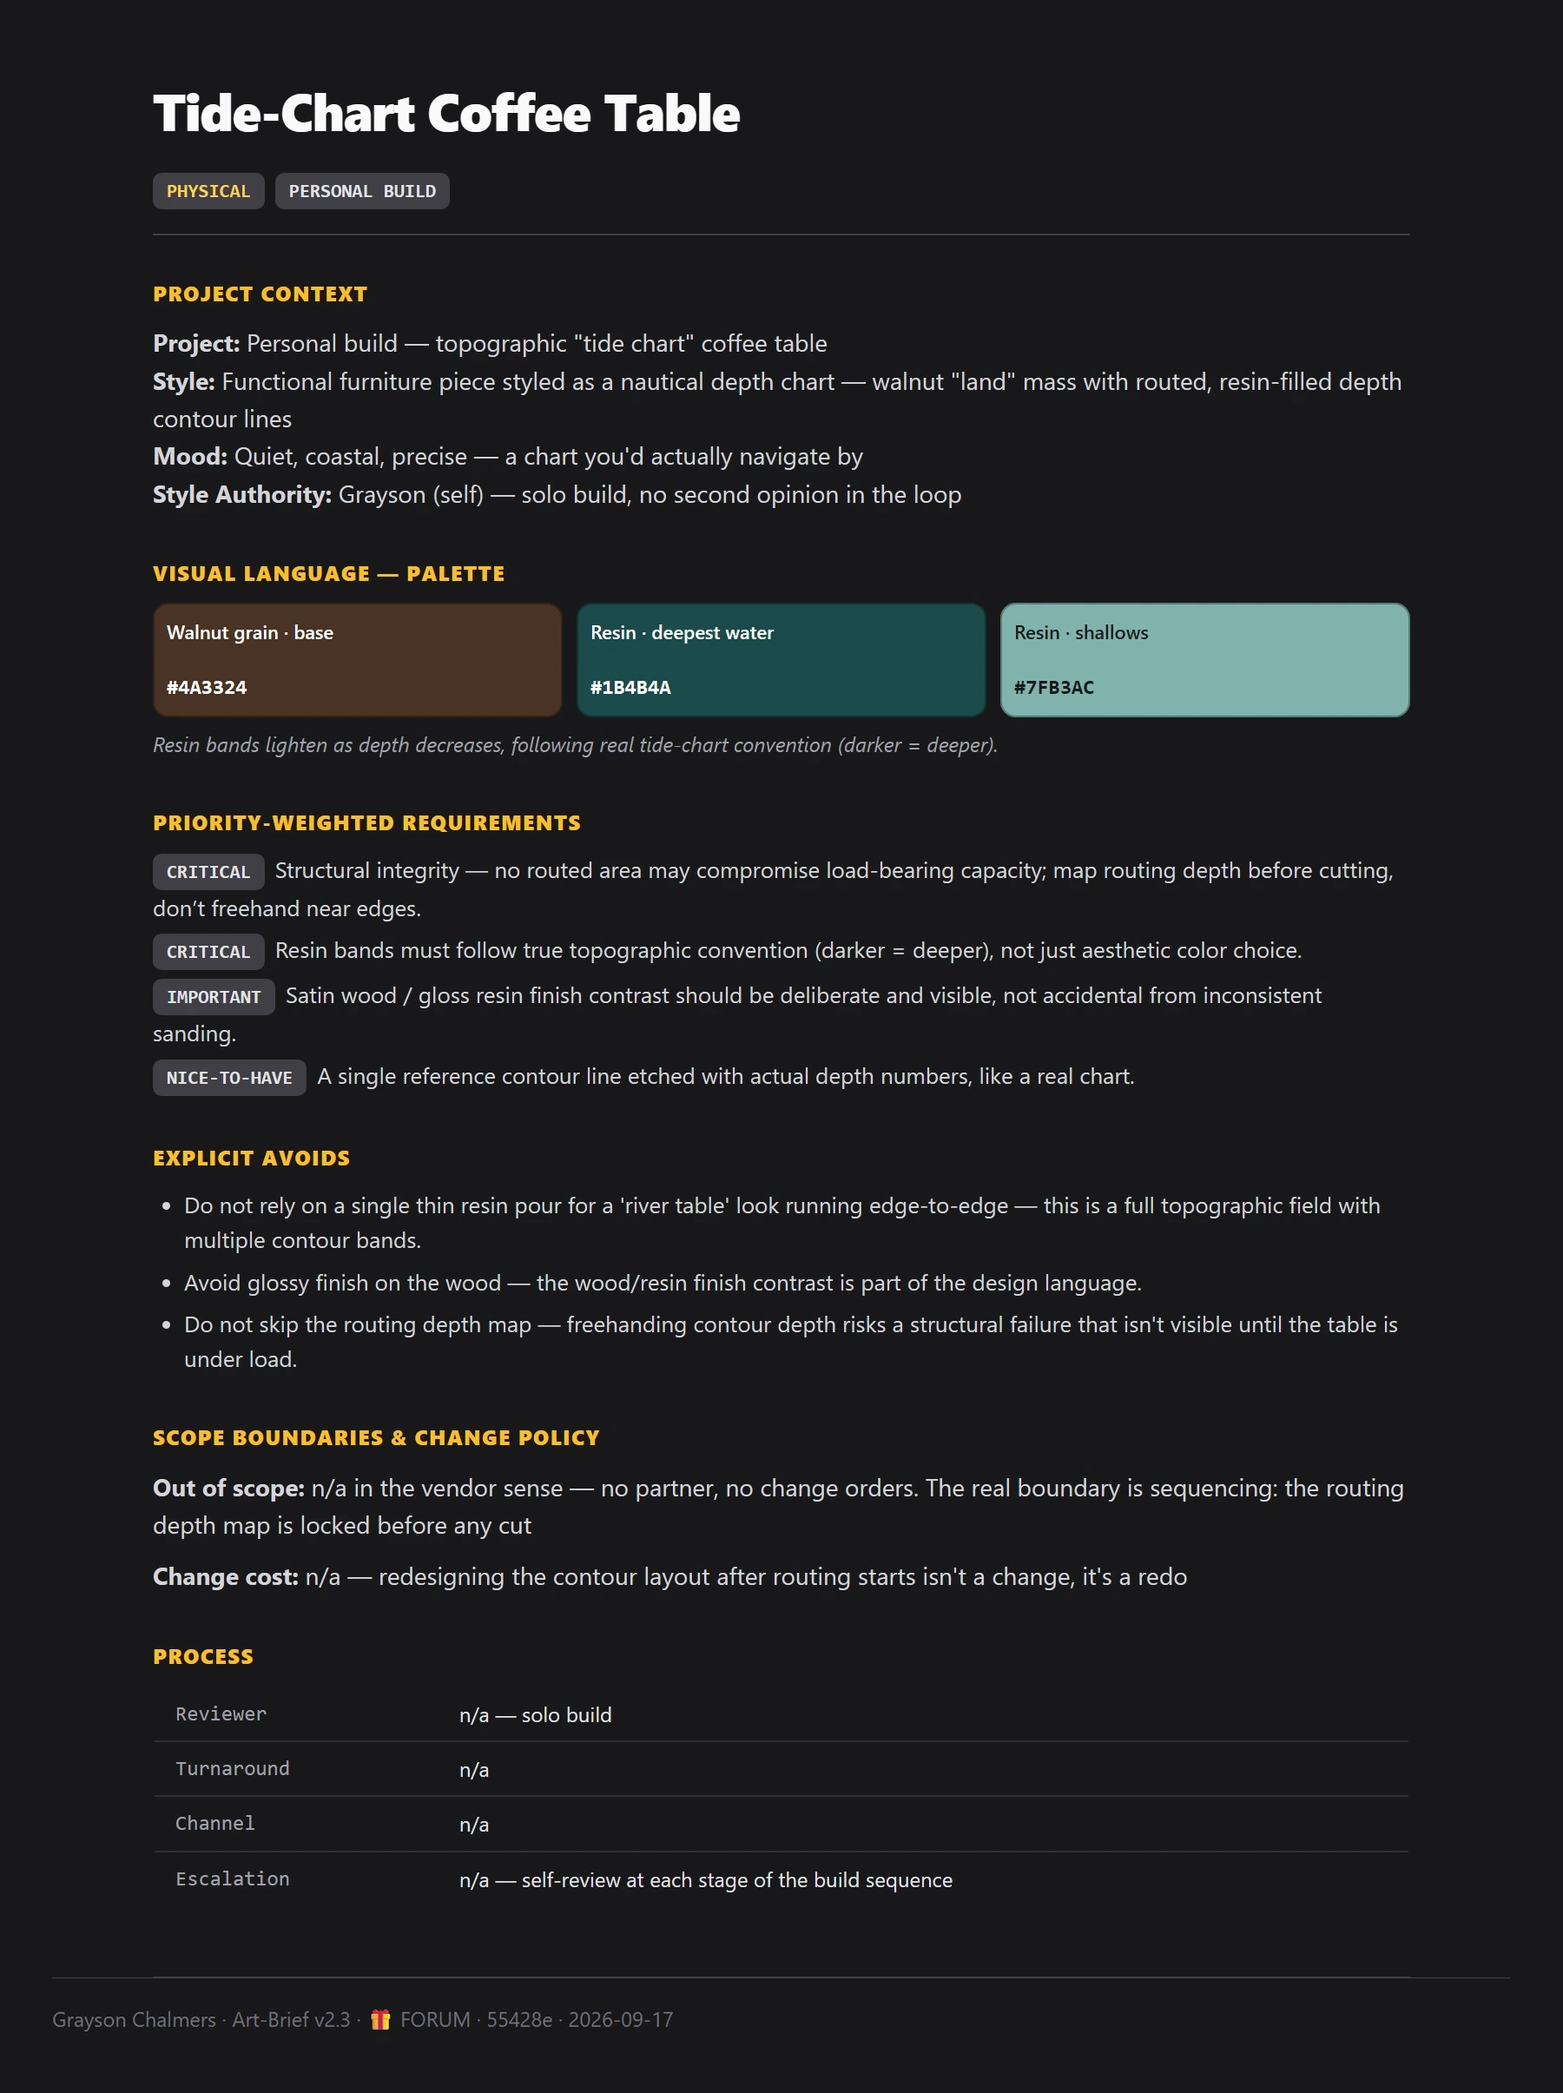
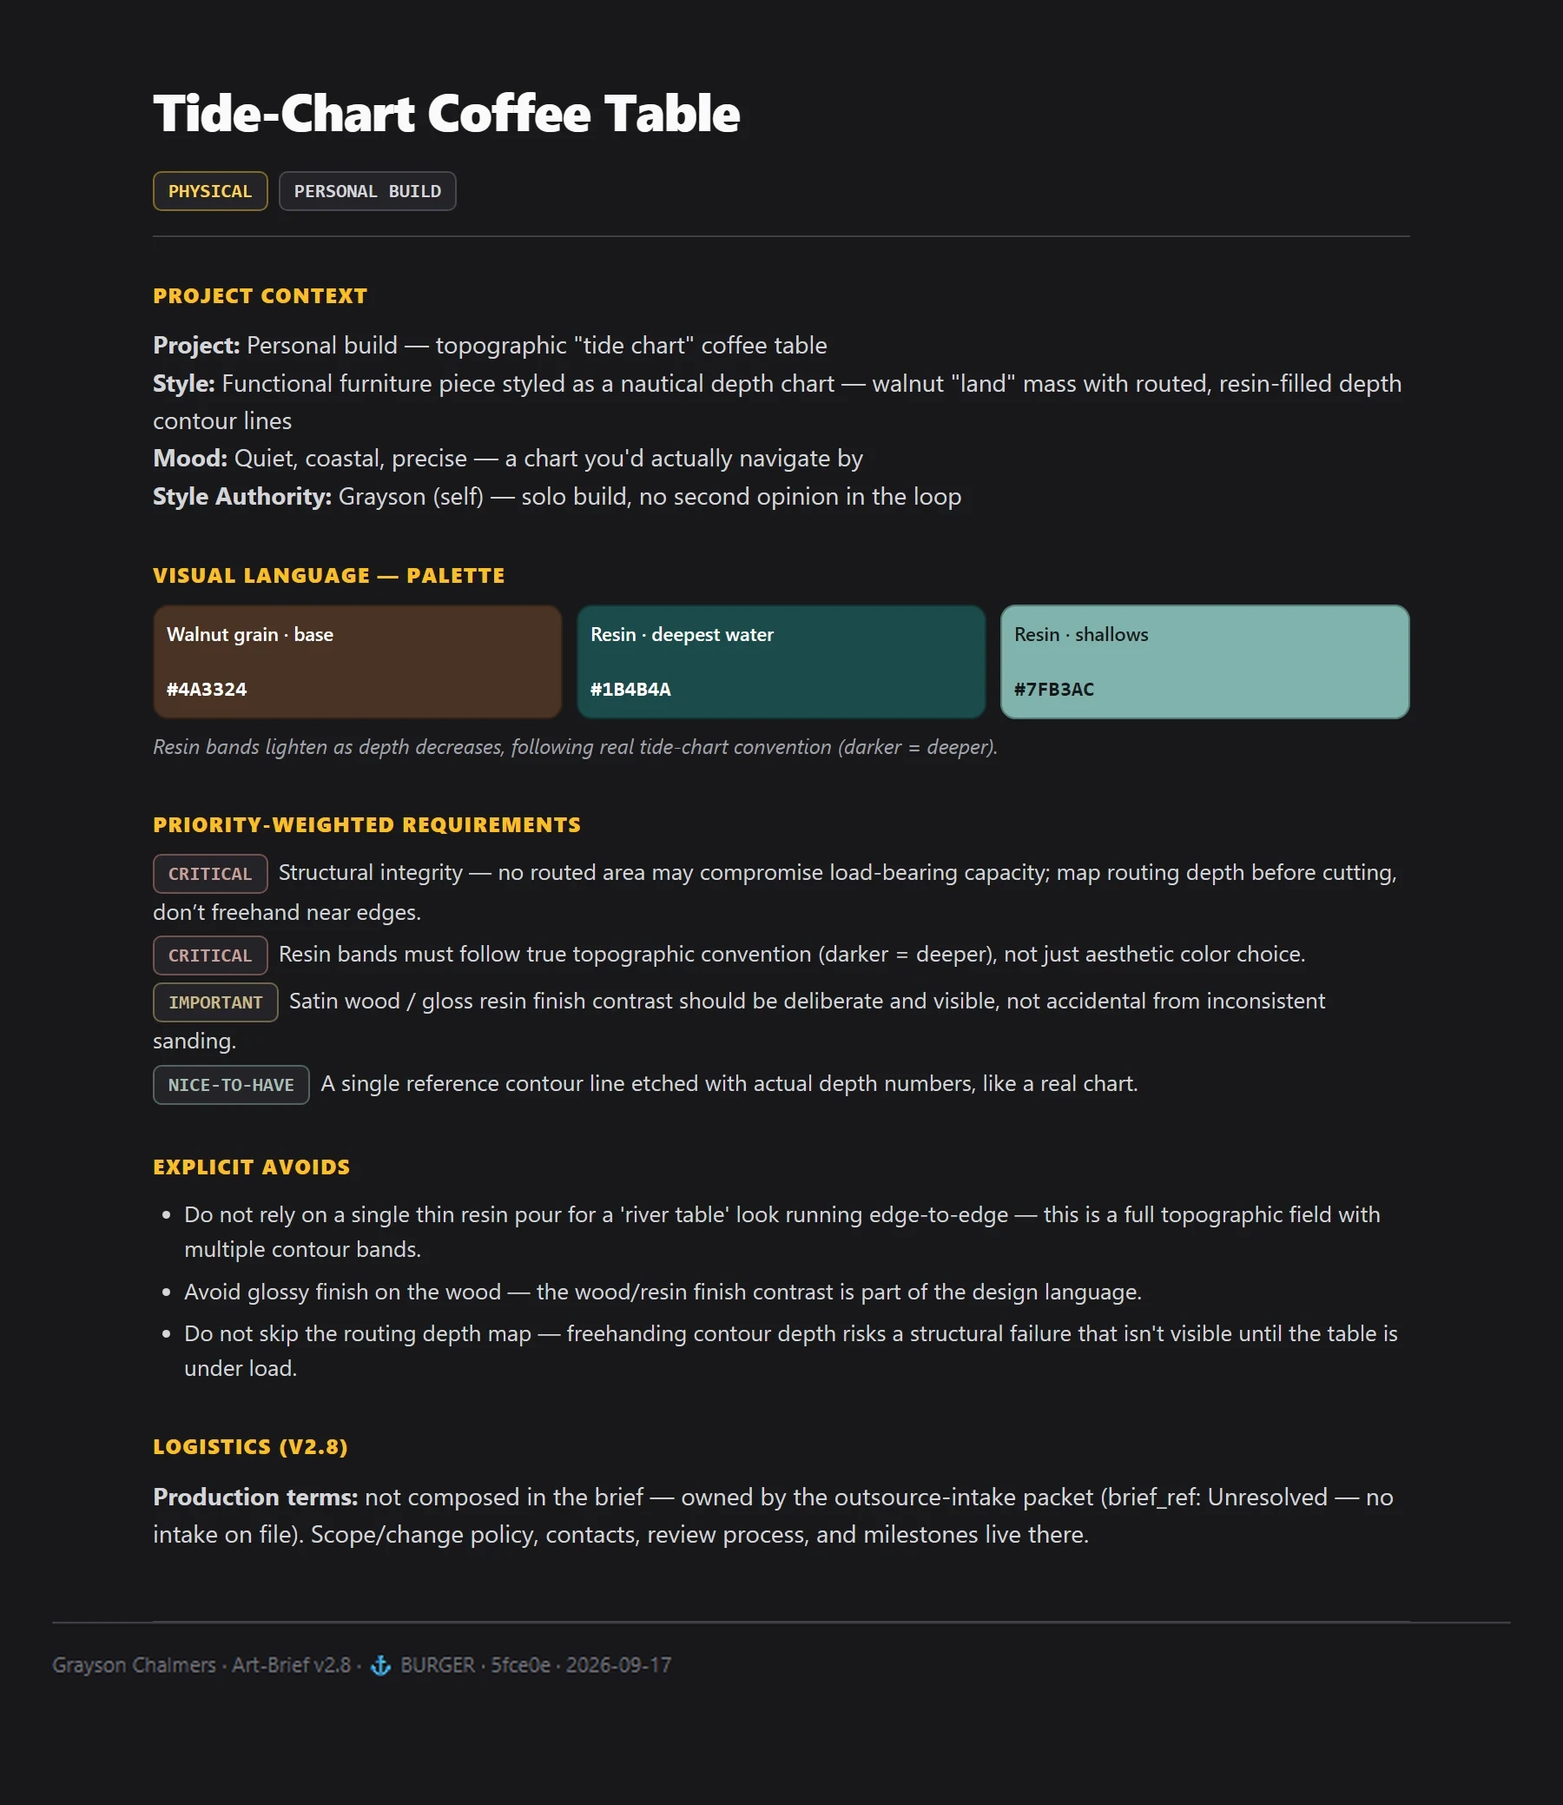
Publish selected skills

Changed region(s): [[0.0311, 0.0308, 0.9022, 0.924], [0.3111, 0.9548, 0.3422, 0.9856], [0.2178, 0.9548, 0.2489, 0.9856]]

diff --git a/README.md b/README.md
@@ -185,34 +185,15 @@ IP: Elden Ring — Golden Order weapons (e.g. Marika's / Radagon's weapons)
   gear/mechanism at the fold point) — ours should look more like a ceremonial
   unfolding, not industrial machinery
 
-### 🚧 Scope Boundaries & Change Policy
-- Out of scope: a third transform state, additional weapon variants, or a
-  companion scabbard/sheath asset — any of these is a change, not an
-  extension of this brief.
-- Change cost: this is a new-vendor paid engagement — any post-kickoff
-  scope change is a change order, quoted separately, not an absorbed
-  favor by default.
+### 🚧 Logistics — owned by outsource-intake (v2.8)
 
-### 📋 Process
-- Named reviewer: Weapons Art Lead (same as Style Authority above), full
-  approval authority.
-- Turnaround: 2 business days, matching the feedback turnaround below.
-- Feedback channel: annotated review doc per milestone.
-- Escalation: a note that survives two rounds unresolved goes to the Art
-  Director.
-
-### 📅 Delivery & Milestones
-```
-MILESTONE STRUCTURE
-───────────────────
-M1 — Concept sketches (2-3 silhouette options, both states): 1 week
-M2 — Refined concept (1 selected direction, both states, colored): 1 week
-M3 — Blockout (game-res mesh, both states, no textures): 1 week
-M4 — Final Asset (textured, both states, LOD0+LOD1): 2 weeks
-
-Revision rounds per milestone: 2
-Feedback turnaround: 2 business days
-```
+Scope/change policy, contact directory, review process, and milestones are
+not composed in the brief. Register the user-supplied facts and pass them
+through: Weapons Art Lead (full approval authority), 2-business-day
+turnaround, annotated review doc per milestone, escalation to the Art
+Director after two unresolved rounds; out of scope — a third transform
+state, extra weapon variants, a companion scabbard, all change-order
+territory. `brief_ref: Unresolved — no intake on file.`
 
 ---
 
@@ -243,16 +224,12 @@ IP: Elden Ring — Golden Order weapons
 **Explicit avoids:** gothic-horror materials, pristine holy gold, glowing
 rune VFX, visible mechanical transform hardware.
 
-**Scope & process:** Out of scope — a third transform state, extra weapon
-variants, a companion scabbard (any of these is a change order, quoted
-separately). Reviewer: Weapons Art Lead, 2-day turnaround, annotated doc
-per milestone.
+**Production terms (v2.8):** not composed in the brief — owned by the
+outsource-intake packet (`brief_ref: Unresolved — no intake on file`).
+Scope/change policy, contacts, review process, and milestones live there.
 
 **Deliverables:** FBX (game-res ≤18K tris + high-poly bake source), 4K
 Substance Painter texture set (Base Color/Normal/ORM), LOD0 + LOD1.
-
-**Milestones:** Concept (1wk) → Refined concept (1wk) → Blockout (1wk) →
-Final (2wk). 2 revision rounds/milestone, 2-day feedback turnaround.
 
 Please reach out if you have questions or need clarification on any point.
 
@@ -416,33 +393,16 @@ IP: Little Nightmares (proportions only, target-quality reference)
 - No combat-damaged costume detailing — her wear comes from decades of
   weather and duty, not battle
 
-### 🚧 Scope Boundaries & Change Policy
-- Out of scope: additional costume variants, a second expression-sheet
-  style, or an alternate "living" (non-ghost) design pass — any of these
-  is a change.
-- Change cost: a small in-flight note (a color nudge, a pose tweak) is the
-  kind of thing a good partner absorbs; anything touching either 🔴
-  Critical requirement above is a change order.
+### 🚧 Logistics — owned by outsource-intake (v2.8)
 
-### 📋 Process
-- Named reviewer: Character Art Director (same as Style Authority above).
-- Turnaround: 2 business days.
-- Feedback channel: annotated review doc, same cadence as milestone
-  deliverables.
-- Escalation: unresolved after 2 rounds goes to the Creative Director.
-
-### 📅 Delivery & Milestones
-```
-MILESTONE STRUCTURE
-───────────────────
-M1 — Sketch/Concept (2-3 options): 1 week
-M2 — Refined Concept (1 selected direction, colored): 1 week
-M3 — Lineart/Turnaround (front/back/3-quarter): 1 week
-M4 — Final Asset (colored, PSD layered) + Expression Sheet: 2 weeks
-
-Revision rounds per milestone: 2
-Feedback turnaround: 2 business days
-```
+Scope/change policy, contact directory, review process, and milestones are
+not composed in the brief. Register the user-supplied facts and pass them
+through: Character Art Director (same person as Style Authority — recorded
+without flagging the name match), 2-business-day turnaround, annotated
+review doc, escalation to the Creative Director after two unresolved
+rounds; out of scope — extra costume variants, a second expression-sheet
+style, a non-ghost design pass (change-order territory).
+`brief_ref: Unresolved — no intake on file.`
 
 ---
 
@@ -475,16 +435,12 @@ IP: Little Nightmares (mood-only reference)
 **Explicit avoids:** horror-ghost visual grammar, doll-like proportions,
 oversaturated magic-glow bloom, combat-damaged costuming.
 
-**Scope & process:** Out of scope — extra costume variants, a second
-expression-sheet style, a non-ghost design pass (change order). Reviewer:
-Character Art Director, 2-day turnaround, annotated doc.
+**Production terms (v2.8):** not composed in the brief — owned by the
+outsource-intake packet (`brief_ref: Unresolved — no intake on file`).
+Scope/change policy, contacts, review process, and milestones live there.
 
 **Deliverables:** PSD (layered) + PNG, front/back/3-quarter turnaround,
 full expression sheet (warmth, quiet sorrow, gentle warning, resolve).
-
-**Milestones:** Concept (1wk) → Refined concept (1wk) → Turnaround (1wk) →
-Final + expression sheet (2wk). 2 revision rounds/milestone, 2-day
-feedback turnaround.
 
 Please reach out if you have questions or need clarification on any point.
 
@@ -624,19 +580,14 @@ Environment: indoor, living-room use
 - Do not skip the routing depth map — freehanding contour depth risks a
   structural failure that isn't visible until the table is under load
 
-### 🚧 Scope Boundaries & Change Policy
-- Out of scope in the vendor sense doesn't apply — no partner, no change
-  orders. The real boundary is sequencing: the routing depth map is locked
-  before any cut. Redesigning the contour layout after routing starts
-  isn't a change, it's a redo — see the structural note above.
+### 🚧 Logistics — owned by outsource-intake (v2.8)
 
-### 📋 Process
-- n/a — solo build. Self-review at each stage of the sequence below stands
-  in for a named reviewer and turnaround.
-
-### 📅 Delivery & Milestones
-*(Omitted — personal build, no vendor handoff. Use the Materials & Process
-Note below as the working sequence instead.)*
+Personal build with no partner and no intake packet: no scope/change policy,
+contacts, review process, or milestones to compose. The real boundary is
+sequencing — the routing depth map is locked before any cut — and that lives
+in the Materials & Process Note below, which replaces the Vendor Brief and
+Generation Prompts blocks for physical/fabrication builds per the skill's
+routing rule. `brief_ref: Unresolved — no intake on file.`
 
 ---
 

diff --git a/Art-Brief/examples/01-prop-duskfall-greatsword.md b/Art-Brief/examples/01-prop-duskfall-greatsword.md
@@ -108,34 +108,15 @@ IP: Elden Ring — Golden Order weapons (e.g. Marika's / Radagon's weapons)
   gear/mechanism at the fold point) — ours should look more like a ceremonial
   unfolding, not industrial machinery
 
-### 🚧 Scope Boundaries & Change Policy
-- Out of scope: a third transform state, additional weapon variants, or a
-  companion scabbard/sheath asset — any of these is a change, not an
-  extension of this brief.
-- Change cost: this is a new-vendor paid engagement — any post-kickoff
-  scope change is a change order, quoted separately, not an absorbed
-  favor by default.
+### 🚧 Logistics — owned by outsource-intake (v2.8)
 
-### 📋 Process
-- Named reviewer: Weapons Art Lead (same as Style Authority above), full
-  approval authority.
-- Turnaround: 2 business days, matching the feedback turnaround below.
-- Feedback channel: annotated review doc per milestone.
-- Escalation: a note that survives two rounds unresolved goes to the Art
-  Director.
-
-### 📅 Delivery & Milestones
-```
-MILESTONE STRUCTURE
-───────────────────
-M1 — Concept sketches (2-3 silhouette options, both states): 1 week
-M2 — Refined concept (1 selected direction, both states, colored): 1 week
-M3 — Blockout (game-res mesh, both states, no textures): 1 week
-M4 — Final Asset (textured, both states, LOD0+LOD1): 2 weeks
-
-Revision rounds per milestone: 2
-Feedback turnaround: 2 business days
-```
+Scope/change policy, contact directory, review process, and milestones are
+not composed in the brief. Register the user-supplied facts and pass them
+through: Weapons Art Lead (full approval authority), 2-business-day
+turnaround, annotated review doc per milestone, escalation to the Art
+Director after two unresolved rounds; out of scope — a third transform
+state, extra weapon variants, a companion scabbard, all change-order
+territory. `brief_ref: Unresolved — no intake on file.`
 
 ---
 
@@ -166,16 +147,12 @@ IP: Elden Ring — Golden Order weapons
 **Explicit avoids:** gothic-horror materials, pristine holy gold, glowing
 rune VFX, visible mechanical transform hardware.
 
-**Scope & process:** Out of scope — a third transform state, extra weapon
-variants, a companion scabbard (any of these is a change order, quoted
-separately). Reviewer: Weapons Art Lead, 2-day turnaround, annotated doc
-per milestone.
+**Production terms (v2.8):** not composed in the brief — owned by the
+outsource-intake packet (`brief_ref: Unresolved — no intake on file`).
+Scope/change policy, contacts, review process, and milestones live there.
 
 **Deliverables:** FBX (game-res ≤18K tris + high-poly bake source), 4K
 Substance Painter texture set (Base Color/Normal/ORM), LOD0 + LOD1.
-
-**Milestones:** Concept (1wk) → Refined concept (1wk) → Blockout (1wk) →
-Final (2wk). 2 revision rounds/milestone, 2-day feedback turnaround.
 
 Please reach out if you have questions or need clarification on any point.
 

diff --git a/Art-Brief/examples/02-character-lantern-warden.md b/Art-Brief/examples/02-character-lantern-warden.md
@@ -124,33 +124,16 @@ IP: Little Nightmares (proportions only, target-quality reference)
 - No combat-damaged costume detailing — her wear comes from decades of
   weather and duty, not battle
 
-### 🚧 Scope Boundaries & Change Policy
-- Out of scope: additional costume variants, a second expression-sheet
-  style, or an alternate "living" (non-ghost) design pass — any of these
-  is a change.
-- Change cost: a small in-flight note (a color nudge, a pose tweak) is the
-  kind of thing a good partner absorbs; anything touching either 🔴
-  Critical requirement above is a change order.
+### 🚧 Logistics — owned by outsource-intake (v2.8)
 
-### 📋 Process
-- Named reviewer: Character Art Director (same as Style Authority above).
-- Turnaround: 2 business days.
-- Feedback channel: annotated review doc, same cadence as milestone
-  deliverables.
-- Escalation: unresolved after 2 rounds goes to the Creative Director.
-
-### 📅 Delivery & Milestones
-```
-MILESTONE STRUCTURE
-───────────────────
-M1 — Sketch/Concept (2-3 options): 1 week
-M2 — Refined Concept (1 selected direction, colored): 1 week
-M3 — Lineart/Turnaround (front/back/3-quarter): 1 week
-M4 — Final Asset (colored, PSD layered) + Expression Sheet: 2 weeks
-
-Revision rounds per milestone: 2
-Feedback turnaround: 2 business days
-```
+Scope/change policy, contact directory, review process, and milestones are
+not composed in the brief. Register the user-supplied facts and pass them
+through: Character Art Director (same person as Style Authority — recorded
+without flagging the name match), 2-business-day turnaround, annotated
+review doc, escalation to the Creative Director after two unresolved
+rounds; out of scope — extra costume variants, a second expression-sheet
+style, a non-ghost design pass (change-order territory).
+`brief_ref: Unresolved — no intake on file.`
 
 ---
 
@@ -183,16 +166,12 @@ IP: Little Nightmares (mood-only reference)
 **Explicit avoids:** horror-ghost visual grammar, doll-like proportions,
 oversaturated magic-glow bloom, combat-damaged costuming.
 
-**Scope & process:** Out of scope — extra costume variants, a second
-expression-sheet style, a non-ghost design pass (change order). Reviewer:
-Character Art Director, 2-day turnaround, annotated doc.
+**Production terms (v2.8):** not composed in the brief — owned by the
+outsource-intake packet (`brief_ref: Unresolved — no intake on file`).
+Scope/change policy, contacts, review process, and milestones live there.
 
 **Deliverables:** PSD (layered) + PNG, front/back/3-quarter turnaround,
 full expression sheet (warmth, quiet sorrow, gentle warning, resolve).
-
-**Milestones:** Concept (1wk) → Refined concept (1wk) → Turnaround (1wk) →
-Final + expression sheet (2wk). 2 revision rounds/milestone, 2-day
-feedback turnaround.
 
 Please reach out if you have questions or need clarification on any point.
 

diff --git a/Art-Brief/examples/03-physical-tide-chart-table.md b/Art-Brief/examples/03-physical-tide-chart-table.md
@@ -101,19 +101,14 @@ Environment: indoor, living-room use
 - Do not skip the routing depth map — freehanding contour depth risks a
   structural failure that isn't visible until the table is under load
 
-### 🚧 Scope Boundaries & Change Policy
-- Out of scope in the vendor sense doesn't apply — no partner, no change
-  orders. The real boundary is sequencing: the routing depth map is locked
-  before any cut. Redesigning the contour layout after routing starts
-  isn't a change, it's a redo — see the structural note above.
+### 🚧 Logistics — owned by outsource-intake (v2.8)
 
-### 📋 Process
-- n/a — solo build. Self-review at each stage of the sequence below stands
-  in for a named reviewer and turnaround.
-
-### 📅 Delivery & Milestones
-*(Omitted — personal build, no vendor handoff. Use the Materials & Process
-Note below as the working sequence instead.)*
+Personal build with no partner and no intake packet: no scope/change policy,
+contacts, review process, or milestones to compose. The real boundary is
+sequencing — the routing depth map is locked before any cut — and that lives
+in the Materials & Process Note below, which replaces the Vendor Brief and
+Generation Prompts blocks for physical/fabrication builds per the skill's
+routing rule. `brief_ref: Unresolved — no intake on file.`
 
 ---
 

diff --git a/Art-Brief/SKILL.md b/Art-Brief/SKILL.md
@@ -818,9 +818,9 @@ Relevant missing schema values remain visible. Commercial disposition follows
 the agreed change boundary rather than being invented by the assistant.
 Grounding: GRIP Field Journal, Rates & Tiers (engagement classes), Buyer
 Readiness (explicit decisions), and The Brief (annotated targets). These are
-procedural adaptations, not rate guidance or automatic approval. Existing
-example images predate v2.4; they illustrate layout, not the decision-label
-contract. Living-brief/rejection tracing is deferred.
+procedural adaptations, not rate guidance or automatic approval. Example cards were regenerated against the v2.8 role-boundary layout
+(logistics pointer, no scope/process blocks); they illustrate layout and
+honest labels, not the full v2.7 source-register contract. Living-brief/rejection tracing is deferred.
 
 ## Example Triggers
 
